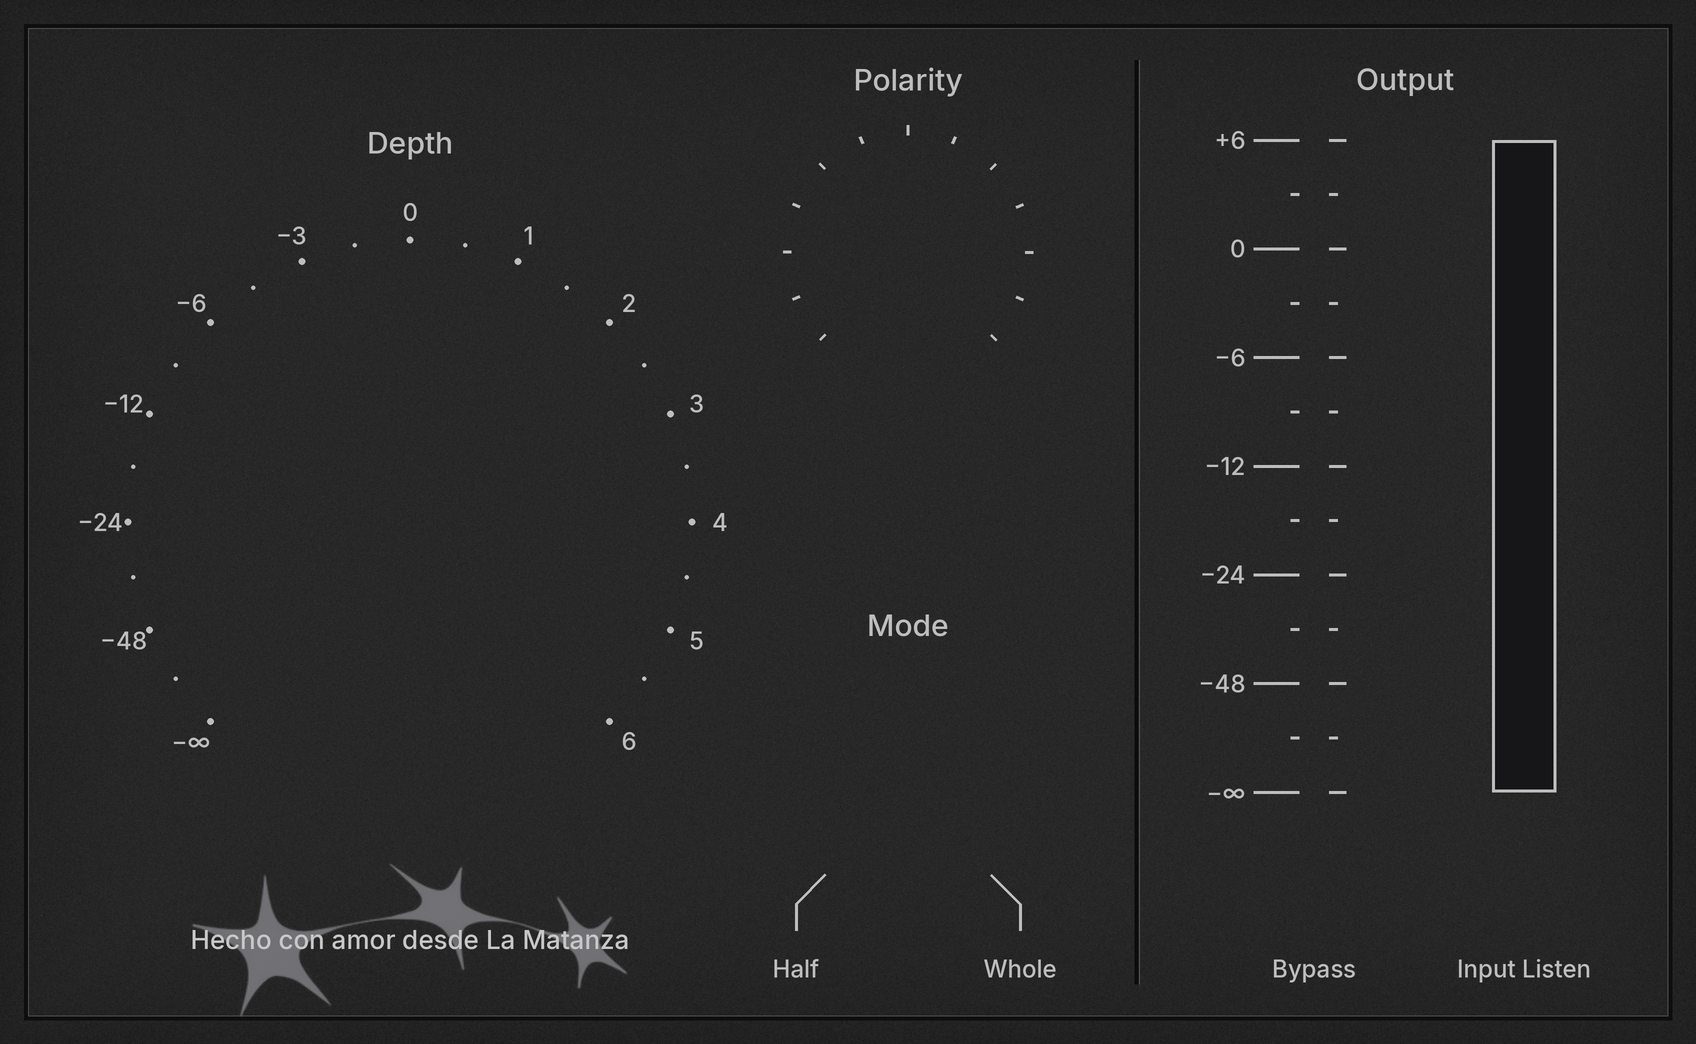
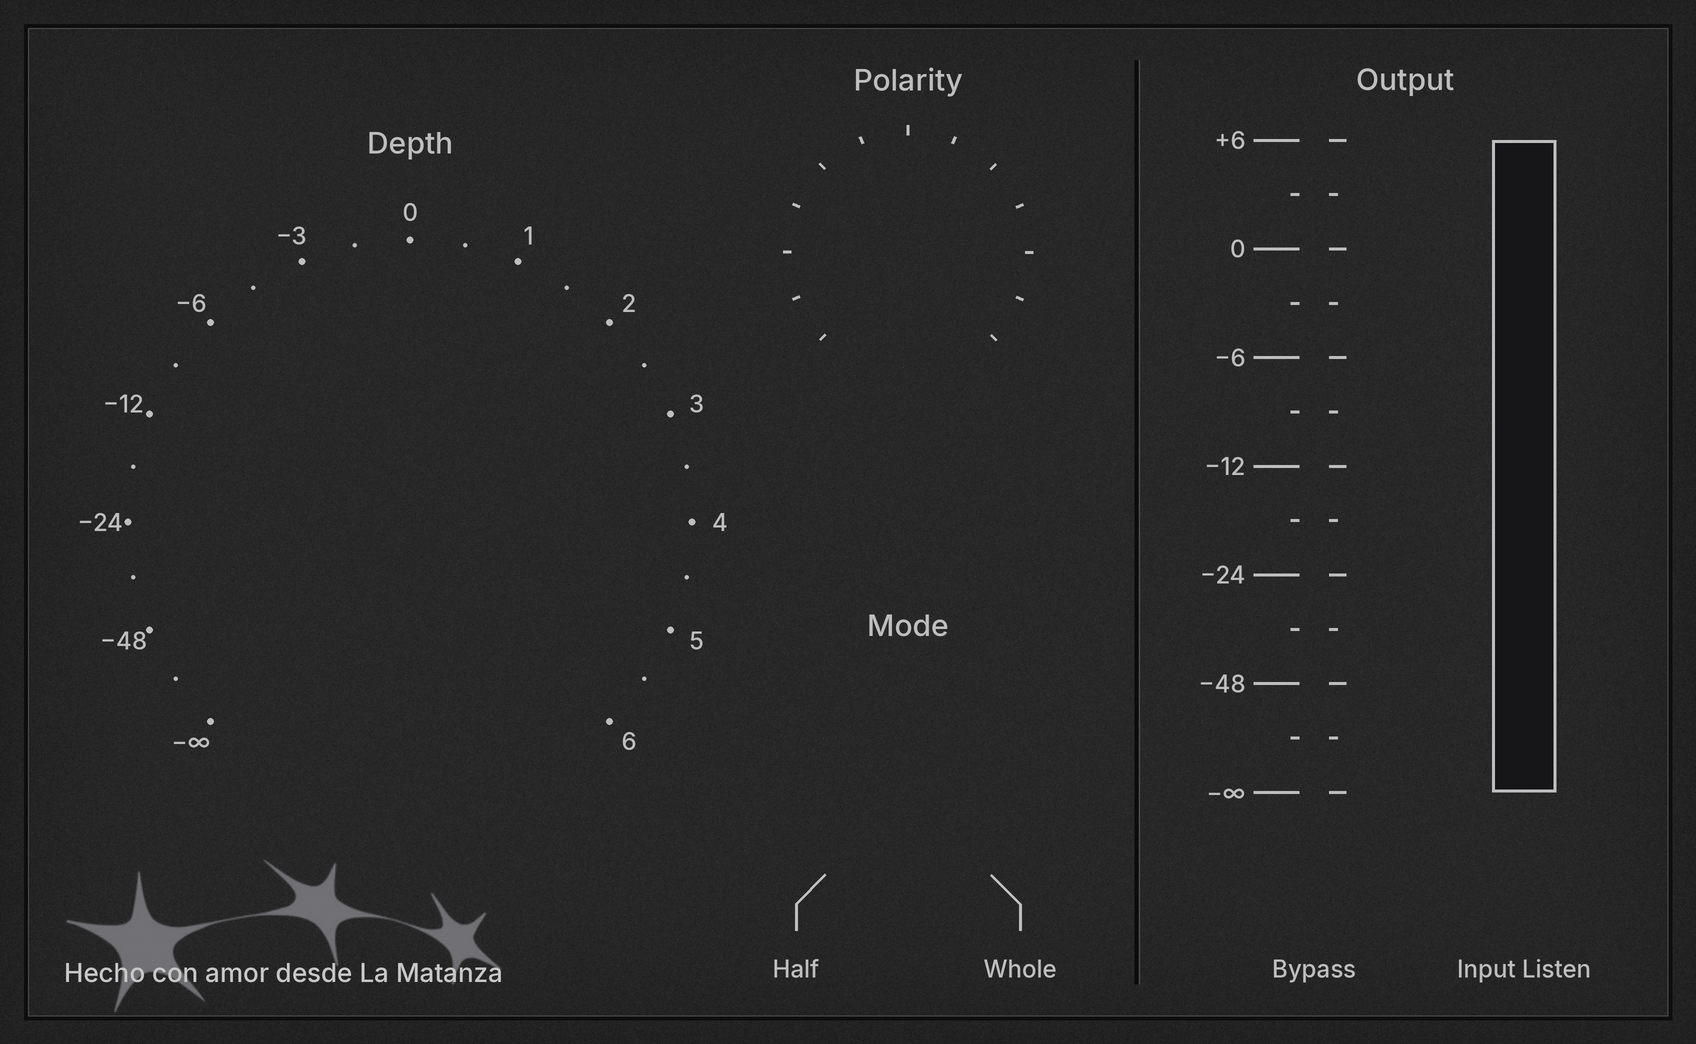
Firma en el angulo inferior izquierdo [skip ci]
Claude-Session: https://claude.ai/code/session_01LmYTuHAKQSU8qhR6nNkVAi

Changed region(s): [[0.0312, 0.8276, 0.375, 0.9502]]

diff --git a/UI_definitiva/generadores/bg_gen_oscuro.py b/UI_definitiva/generadores/bg_gen_oscuro.py
@@ -82,7 +82,7 @@ for sg,xe in ((-1,796),(1,1020)):
 # firma: las tres estrellas pasan por detras del texto
 _st=Image.open('ui_assets/art/estrellas_alpha.png'); _k=440/_st.width
 _st=_st.resize((int(_st.width*_k*S),int(_st.height*_k*S)),Image.LANCZOS)
-_lay=Image.new('RGB',_st.size,(122,122,126)); img.paste(_lay,(int(410*S-_st.width/2),int(940*S-_st.height/2)),_st.point(lambda v:int(v*0.9)))
+_lay=Image.new('RGB',_st.size,(122,122,126)); img.paste(_lay,(int(64*S),int(936*S-_st.height/2)),_st.point(lambda v:int(v*0.9)))
 d=ImageDraw.Draw(img)
-d.text((410*S,949*S),'Hecho con amor desde La Matanza',font=FM(26),fill=(200,200,200),anchor='ms')
+d.text((64*S,982*S),'Hecho con amor desde La Matanza',font=FM(26),fill=(200,200,200),anchor='ls')
 img.resize((W,H),Image.LANCZOS).save(__import__('sys').argv[2])
